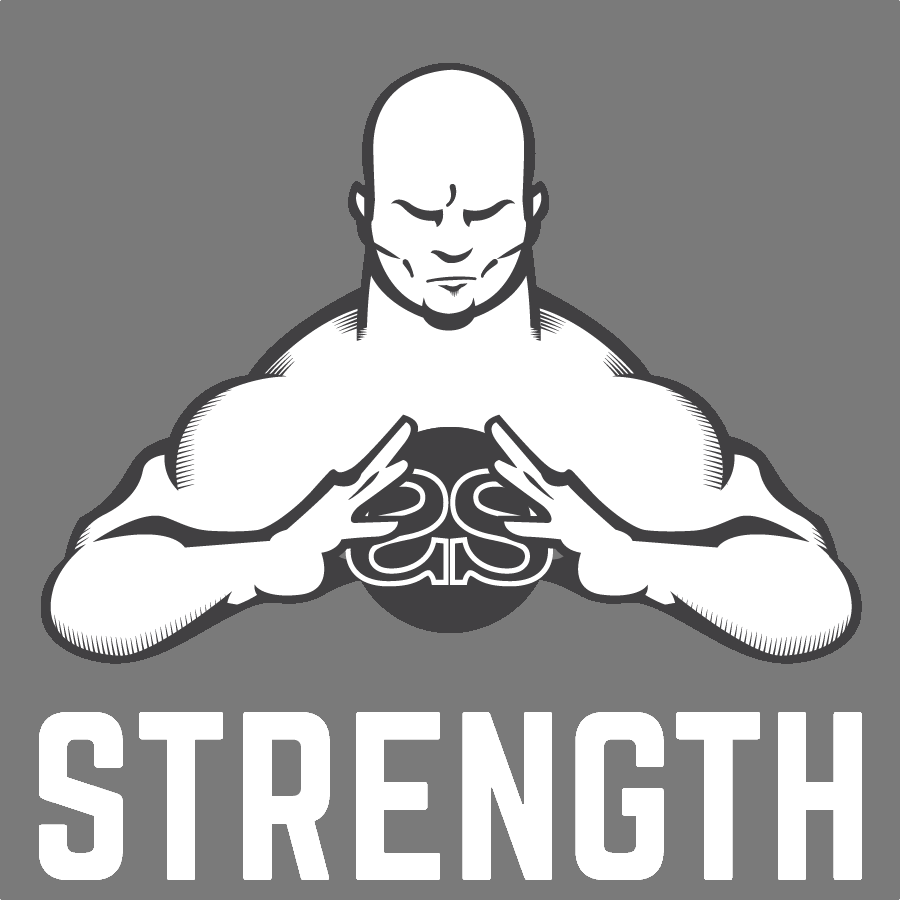
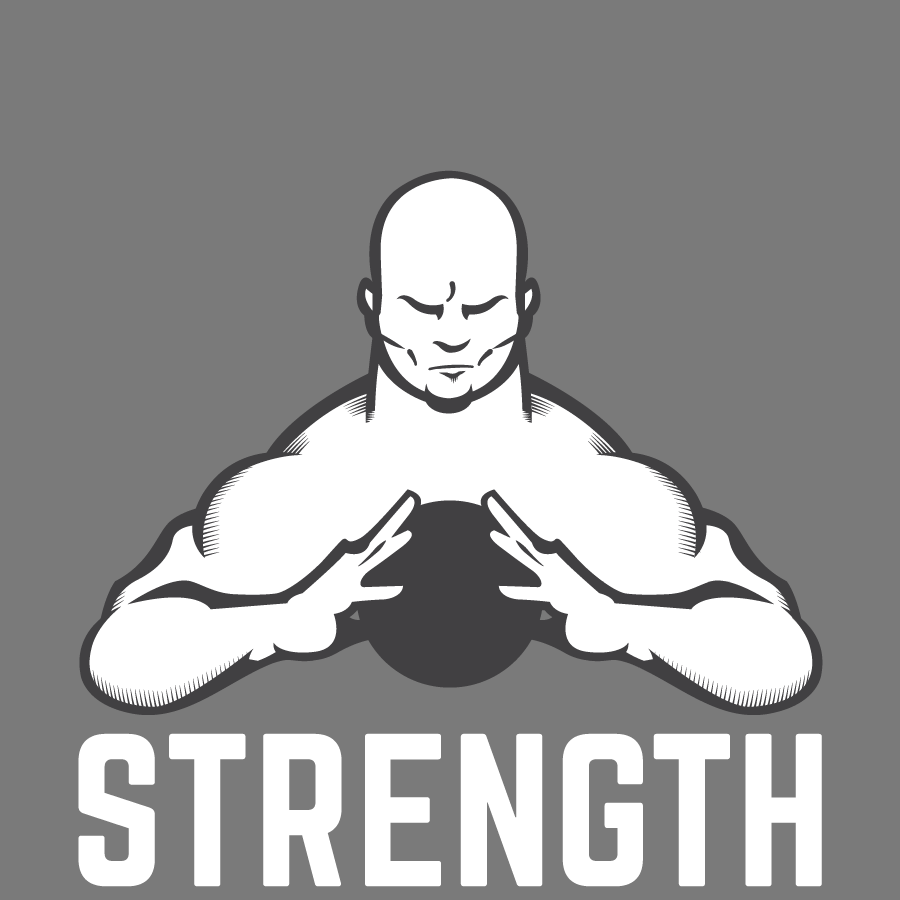
Re-doing Strength & Sport images, fixing mozilla navbar-brand issue

diff --git a/css/style.css b/css/style.css
@@ -33,7 +33,7 @@
     opacity: 1;
   }
 }
-.fade-out, .work-container.remove, .work-focus.remove {
+.fade-out, .work-focus.remove {
   -webkit-animation-duration: 0.5s;
   animation-duration: 0.5s;
   -webkit-animation-fill-mode: both;
@@ -81,8 +81,10 @@ nav {
   margin-top: -3px;
   padding-top: 15px;
   /* gives a little extra padding to deal with hover effect on the right side of the nav */
-  text-indent: 100%;
+  text-indent: 200%;
+  /* hides text - image replacement technique */
   white-space: nowrap;
+  /* hides text - image replacement technique */
   overflow: hidden;
   border-top: 3px solid transparent;
   -webkit-transition: all 0.5s ease;
@@ -152,7 +154,7 @@ section.about, footer.about {
   /* aligns section with navbar */
   background: url(/images/hero.jpg) #333333;
   background-size: cover;
-  background-position: 50% 90%;
+  background-position: 50% 50%;
   color: white;
 }
 
@@ -635,11 +637,7 @@ section.portfolio, footer.portfolio {
 }
 
 .work-container.remove {
-  display: block;
   max-height: 0;
-  -webkit-transition: max-height 0.1s ease;
-  -moz-transition: max-height 0.1s ease;
-  transition: max-height 0.1s ease;
 }
 
 .work-focus.remove {

diff --git a/css/sections/_navbar.scss b/css/sections/_navbar.scss
@@ -18,8 +18,8 @@ nav {
   	    @include display(border-box);
         margin-top: -3px;
     		padding-top: 15px; /* gives a little extra padding to deal with hover effect on the right side of the nav */
-        text-indent: 100%;
-        white-space: nowrap;
+        text-indent: 200%; /* hides text - image replacement technique */
+        white-space: nowrap; /* hides text - image replacement technique */
         overflow: hidden;
         border-top: 3px solid rgba(0,0,0,0);
         @include transition(all $default-transition ease)

diff --git a/css/sections/_portfolio.scss b/css/sections/_portfolio.scss
@@ -99,10 +99,7 @@ section.portfolio {
             }
 
             .work-container.remove {
-                display: block;
-                @extend .fade-out;
                 max-height: 0;
-                @include transition(max-height .1s ease);
             }
 
             .work-focus.remove {

diff --git a/css/sections/_about.scss b/css/sections/_about.scss
@@ -5,7 +5,7 @@ section.about {
     margin-top: -27px; /* aligns section with navbar */
     background: url(/images/hero.jpg) $dark-base-color;
     background-size: cover;
-    background-position: 50% 90%;
+    background-position: 50% 50%;
     color: white;
 }
 
